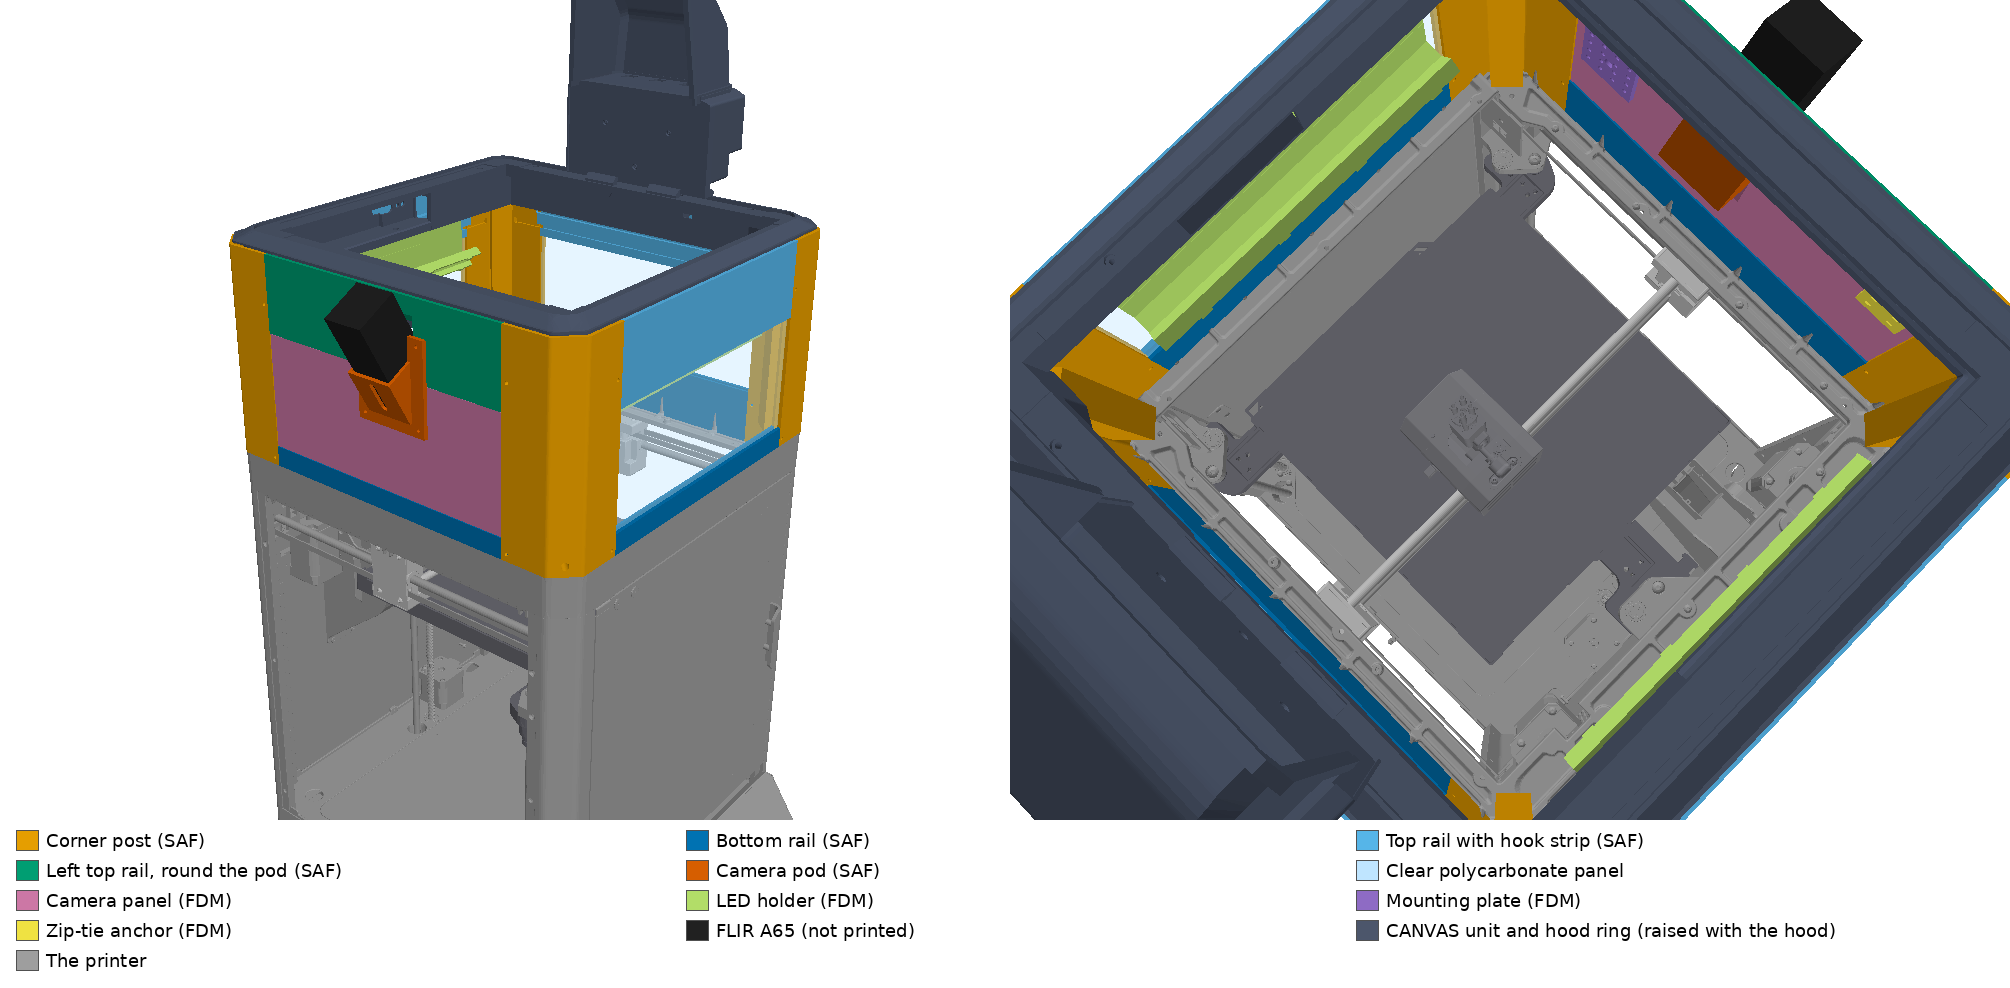
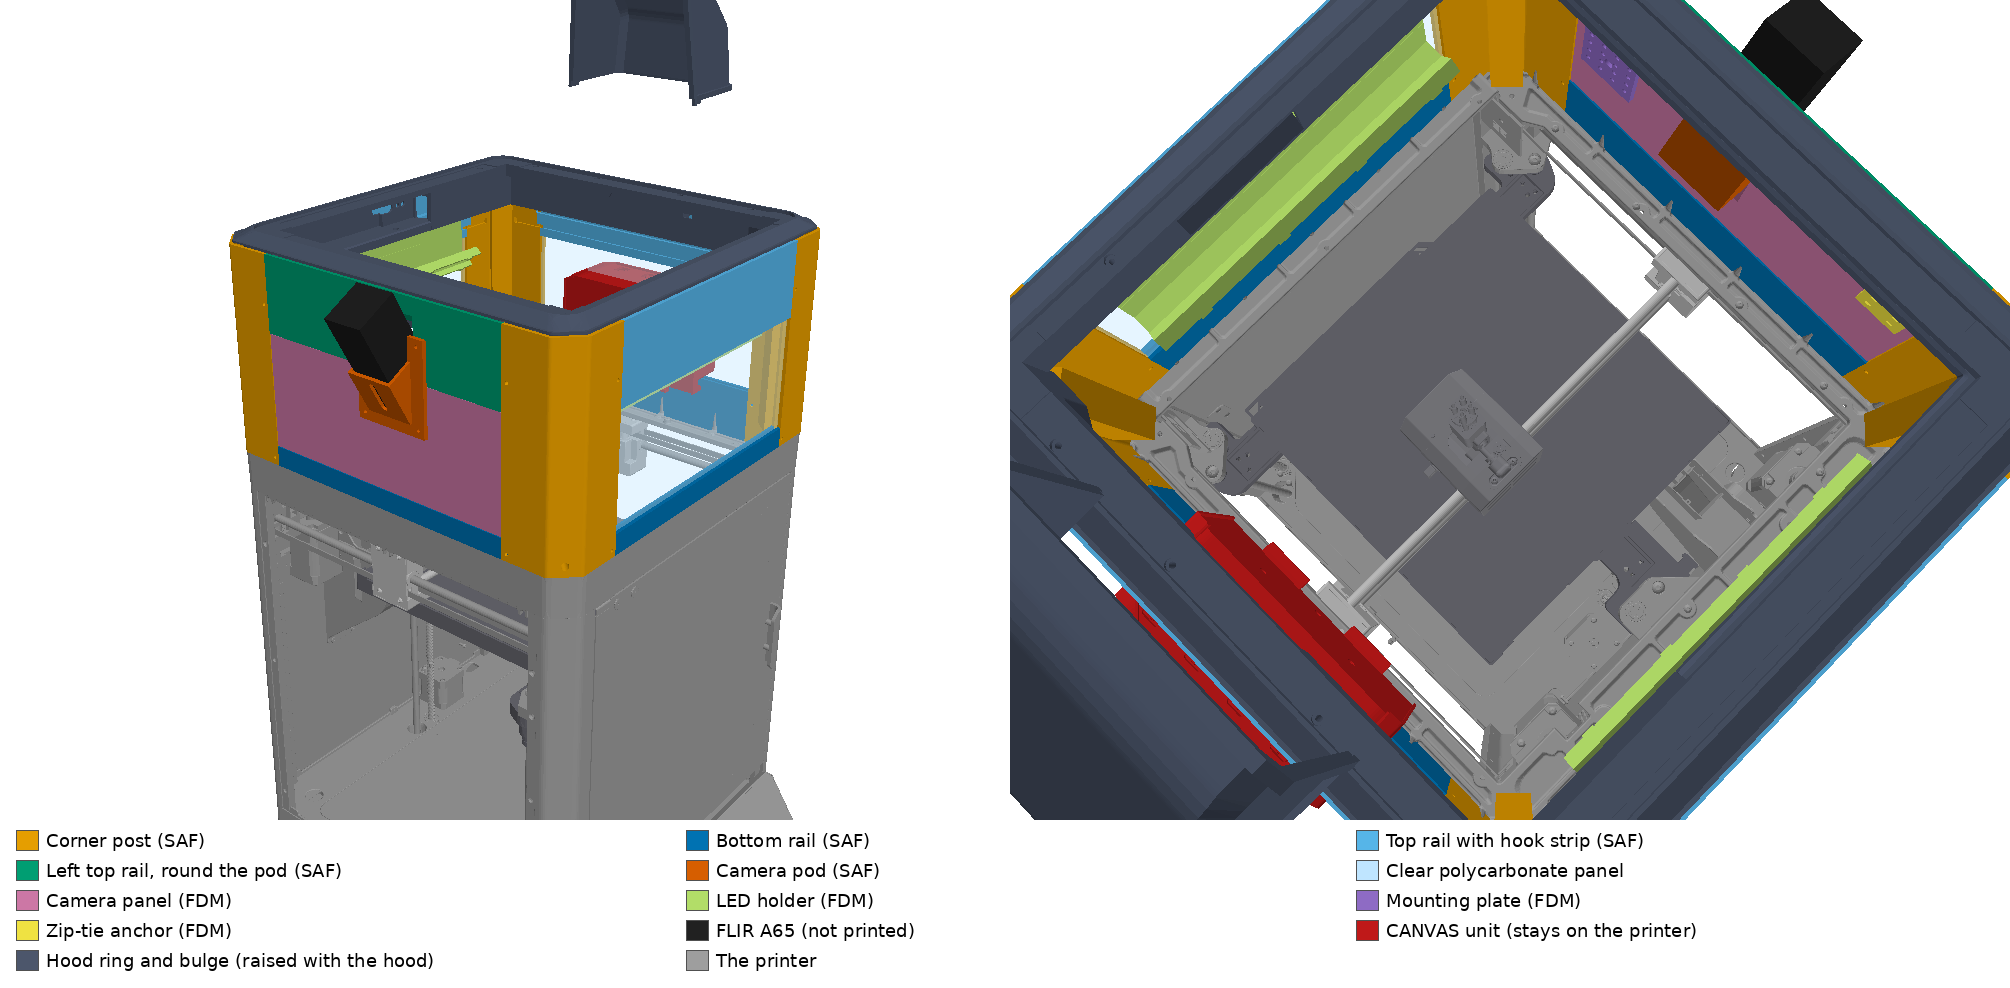
Renders: the CANVAS stays on the printer's top frame; only the hood (ring and bulge) rises
Claude-Session: https://claude.ai/code/session_01Q2zeM6t4r7zsDWTB2iKg4e

diff --git a/hardware/cc2-thermal-riser/render_frame.py b/hardware/cc2-thermal-riser/render_frame.py
@@ -9,9 +9,10 @@ LABELS = {"post": "Corner post (SAF)", "rail-bottom": "Bottom rail (SAF)", "rail
           "rail-top-left": "Left top rail, round the pod (SAF)", "camera-pod": "Camera pod (SAF)", "panel-polycarbonate": "Clear polycarbonate panel",
           "panel-camera": "Camera panel (FDM)", "zip-anchor": "Zip-tie anchor (FDM)", "led-holder": "LED holder (FDM)",
           "mounting-plate": "Mounting plate (FDM)", "camera": "FLIR A65 (not printed)", "printer": "The printer",
-          "canvas": "CANVAS unit and hood ring (raised with the hood)"}
+          "canvas": "CANVAS unit (stays on the printer)", "hood": "Hood ring and bulge (raised with the hood)"}
 GREYS = {"static": (0.62, 0.62, 0.62), "bed": (0.42, 0.42, 0.45), "gantry": (0.75, 0.75, 0.75), "head": (0.5, 0.5, 0.52)}
-RAISED = (0.30, 0.34, 0.42)   # the hood's base ring and the CANVAS: they sit on the riser, so they rise by its height
+RAISED = (0.30, 0.34, 0.42)   # the hood's base ring and its bulge over the CANVAS: they sit on the riser, so they rise by its height
+CANVAS = (0.75, 0.10, 0.10)   # the CANVAS unit: it stands on the printer's top frame, so it stays put
 
 def scene(explode=False, printer=True):
     solid, clear = [], []
@@ -32,10 +33,12 @@ def scene(explode=False, printer=True):
             m = trimesh.load(os.path.join(B, "cc2mesh", g + ".stl"))
             if g == "bed": m.apply_translation([0, 0, 169.1])
             solid.append((m, col))
-        for g in ("lid", "canvas"):
+        # The hood (its base ring and the bulge over the CANVAS) sits on the riser, so it rises by its height. The CANVAS
+        # stands on the printer's top frame and stays where it is.
+        for g, raise_by, col in (("lid", index.get("riser_height", 0), RAISED), ("canvas", 0, CANVAS)):
             f = os.path.join(B, "cc2mesh", g + ".stl")
             if os.path.exists(f):
-                m = trimesh.load(f); m.apply_translation([0, 0, index.get("riser_height", 0)]); solid.append((m, RAISED))
+                m = trimesh.load(f); m.apply_translation([0, 0, raise_by]); solid.append((m, col))
     return solid, clear
 
 def mesh_of(items):
@@ -70,7 +73,7 @@ def legend(kinds, width):
     rows = (len(kinds) + cols - 1) // cols; im = Image.new("RGB", (width, 18 + rows * 30), "white"); dr = ImageDraw.Draw(im)
     for i, k in enumerate(kinds):
         x, y = 16 + (i % cols) * (width // cols), 10 + (i // cols) * 30
-        col = tuple(int(255 * c) for c in (C.get(k) or (RAISED if k == "canvas" else GREYS["static"])))
+        col = tuple(int(255 * c) for c in (C.get(k) or (CANVAS if k == "canvas" else RAISED if k == "hood" else GREYS["static"])))
         dr.rectangle([x, y, x + 22, y + 20], fill=col, outline=(80, 80, 80)); dr.text((x + 30, y), LABELS[k], fill="black", font=font)
     return im
 
@@ -81,13 +84,14 @@ def sheet(images, kinds, path):
     out.paste(lg, (0, top)); out.save(path); print("wrote", os.path.relpath(path, HERE))
 
 kinds = ["post", "rail-bottom", "rail-top", "rail-top-left", "camera-pod", "panel-polycarbonate", "panel-camera",
-         "led-holder", "mounting-plate", "zip-anchor", "camera", "canvas", "printer"]
+         "led-holder", "mounting-plate", "zip-anchor", "camera", "canvas", "hood", "printer"]
 assembled = scene()
 a = render(assembled, (-950, -760, 1000), (-40, 0, 470))
 b = render(assembled, (60, 60, 1200), (0, 0, 520), fov=46)
 sheet([a, b], kinds, os.path.join(HERE, "images", "frame.png"))
-front = render(assembled, (0, -1500, 560), (0, 0, 470), w=900, h=1000, fov=40)   # straight on from the front, as in a photo
-sheet([front], kinds, os.path.join(HERE, "images", "frame-front.png"))
+front = render(assembled, (0, -1500, 560), (0, 0, 470), w=900, h=1000, fov=40)
+right = render(assembled, (1300, -700, 900), (120, 0, 500), w=900, h=1000, fov=36)   # the CANVAS side   # straight on from the front, as in a photo
+sheet([front, right], kinds, os.path.join(HERE, "images", "frame-front.png"))
 exploded = scene(explode=True, printer=False)
 c = render(exploded, (-1150, -900, 1150), (0, 0, 520), w=1300, h=1000, fov=42)
-sheet([c], [k for k in kinds if k not in ("printer", "canvas")], os.path.join(HERE, "images", "frame-exploded.png"))
+sheet([c], [k for k in kinds if k not in ("printer", "canvas", "hood")], os.path.join(HERE, "images", "frame-exploded.png"))
